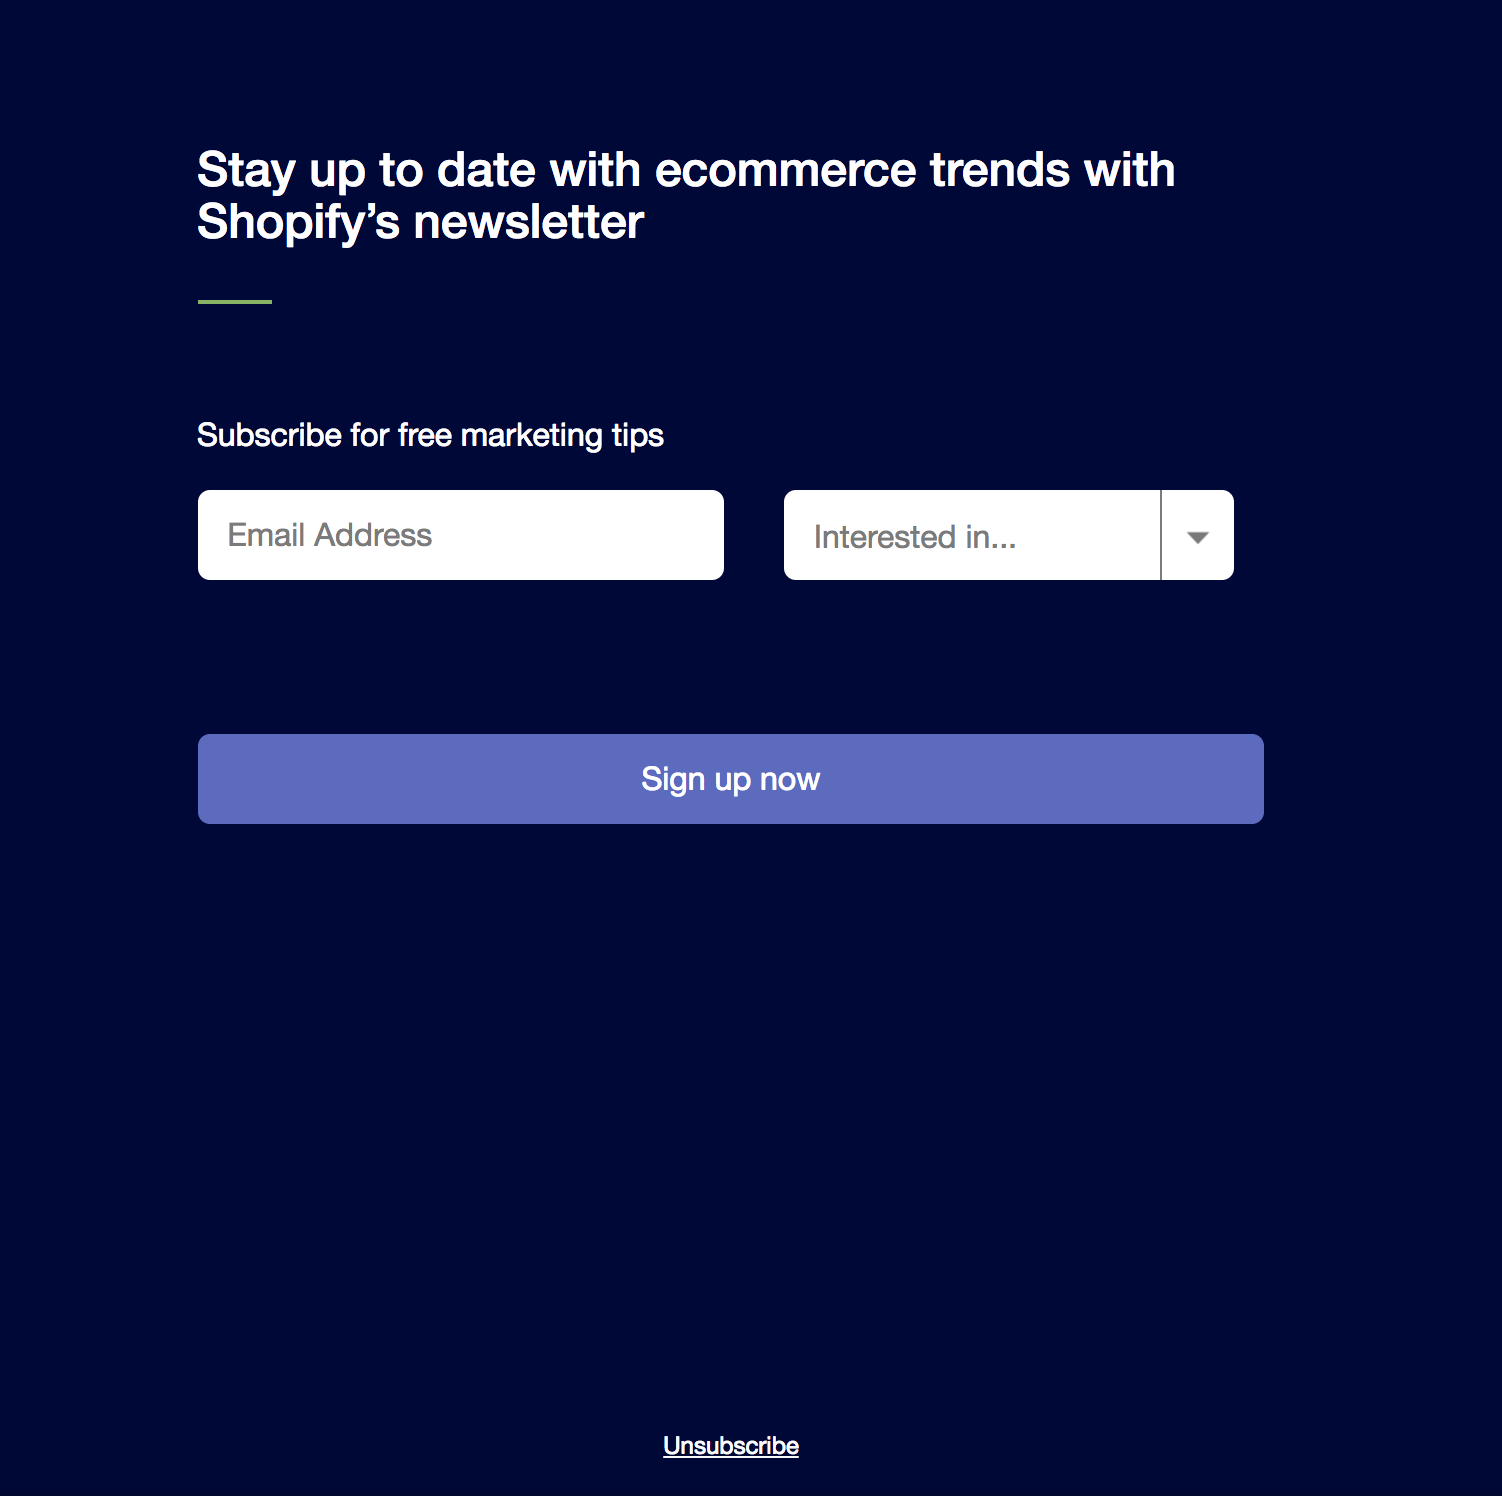
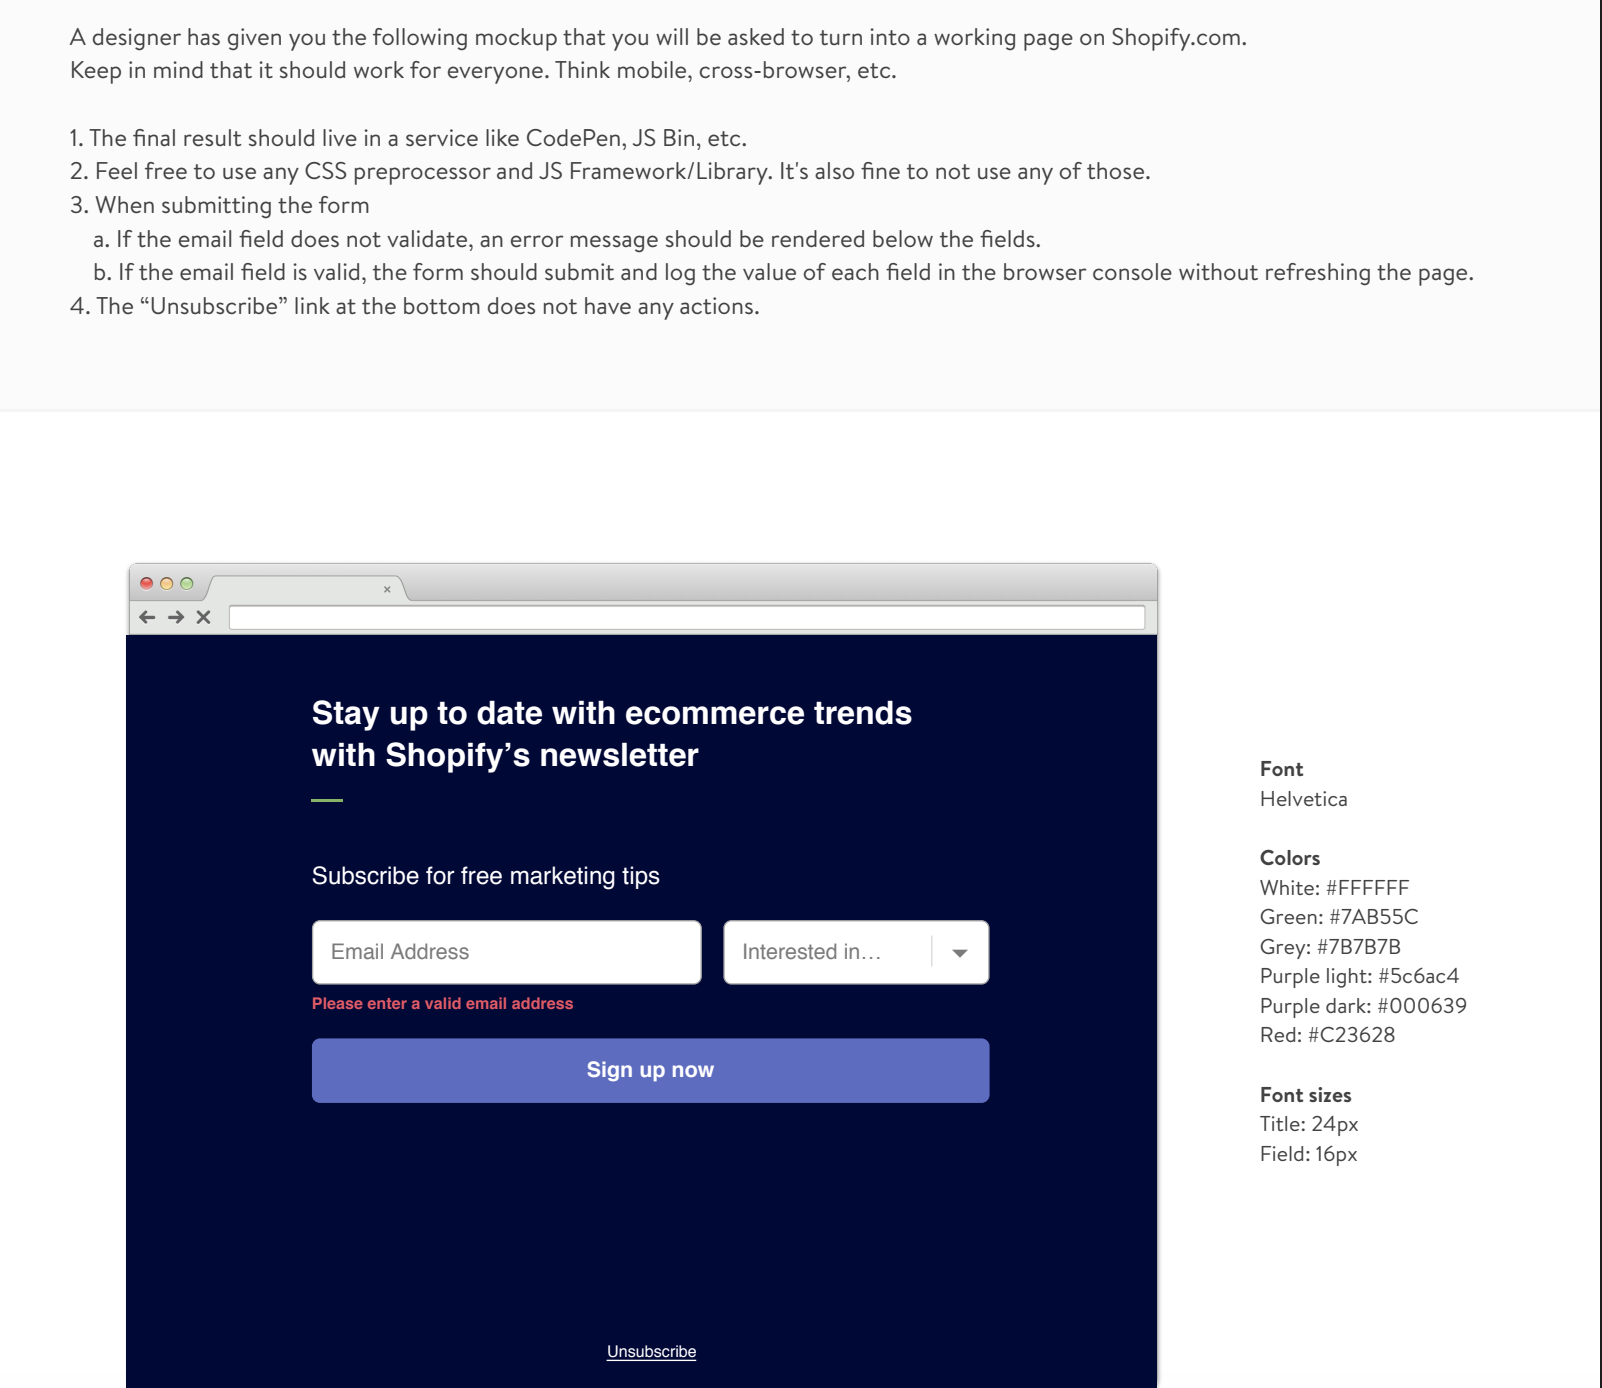
Updated ReadMe

diff --git a/style/style.css b/style/style.css
@@ -13,6 +13,10 @@ body {
   overflow: hidden;
 }
 
+p {
+  margin-bottom: 1.5vh;
+}
+
 .App {
   position: absolute;
   top: 0;
@@ -27,7 +31,7 @@ body {
   padding-bottom: 2vh;
   padding-left: 2vh;
   padding-right: 2vh;
-  max-width: 75vh;
+  max-width: 76vh;
   max-height: 100%;
   position: absolute;
   left:0; right:0;
@@ -49,6 +53,7 @@ body {
 .Subscribe {
   color: #ffffff;
   padding-top: 7vh;
+  padding-bottom: 2vh;
 }
 /*
 -webkit-border-radius: 6px;
@@ -67,7 +72,7 @@ body {
   width: 35vh;
   height: 6vh;
   color: #7B7B7B;
-  padding: 2vh;
+  padding-left: 3%;
   outline: none;
   border: none;
   border-radius: 6px;
@@ -78,7 +83,7 @@ body {
   width: 35vh;
   height: 6vh;
   color: #000000;
-  padding: 2vh;
+  padding-left: 3%;
   outline: none;
   border: none;
   border-radius: 6px;
@@ -90,11 +95,11 @@ body {
 }
 
 .DropDownText {
-  padding: 2vh;
-  vertical-align: middle;
+  vertical-align: top;
   width: 25vh;
   height: 6vh;
   color: #7B7B7B;
+  padding-left: 3%;
   outline: none;
   border: none;
   border-top-left-radius: 6px;
@@ -102,16 +107,13 @@ body {
 }
 
 .DropDownButton {
-  border-left: 1px solid #7B7B7B;
-  border-top: none;
-  border-bottom: none;
-  border-right: none;
+  border: none;
   height: 6vh;
-  width: 5vh;
+  width: 6vh;
   outline: none;
   border-top-right-radius: 6px;
   border-bottom-right-radius: 6px;
-  vertical-align: middle;
+  vertical-align: top;
   top: 0;
 }
 
@@ -124,6 +126,7 @@ body {
 }
 
 .Icon {
+  margin: auto;
   height: 2.5vh;
 }
 
@@ -160,6 +163,7 @@ body {
 }
 
 .ErrorTextHidden {
+  font-size: 12px;
   opacity: 0;
 }
 
@@ -169,7 +173,7 @@ body {
 }
 
 .SignUpButton {
-  margin-top: 5vh;
+  margin-top: 4vh;
   border-radius: 6px;
   border: none;
   height: 6vh;

diff --git a/README.md b/README.md
@@ -1,3 +1,6 @@
 # ShopifyApplication
 
+
+Goal:
+
 ![Alt text](./FinalProduct.png)
